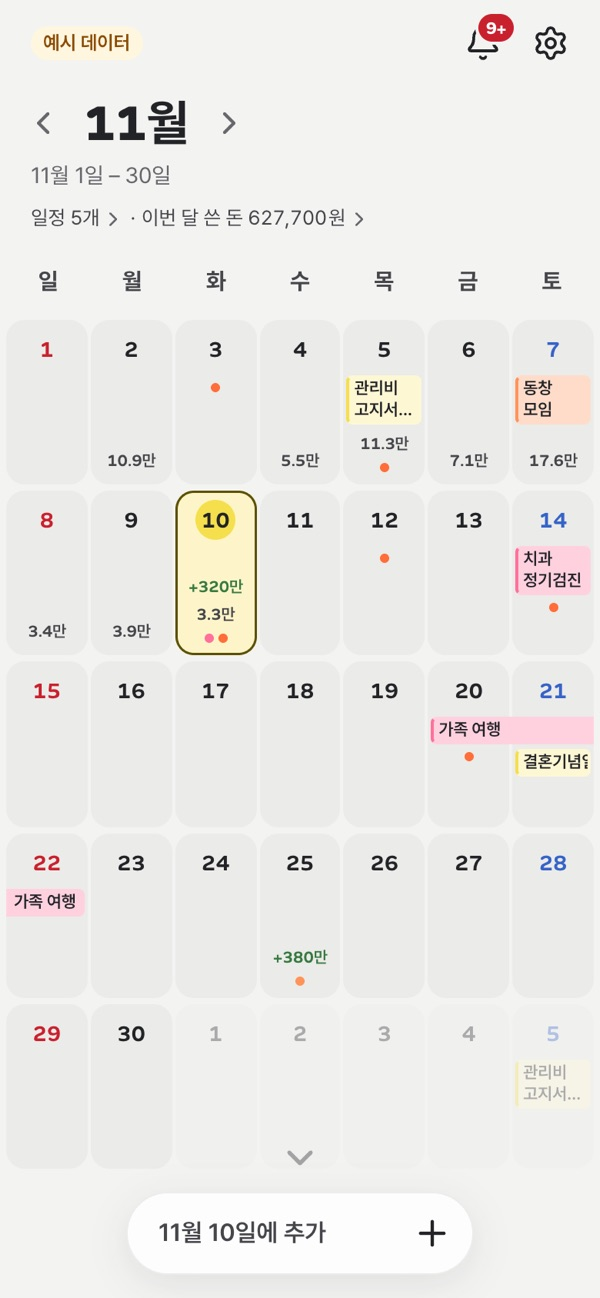
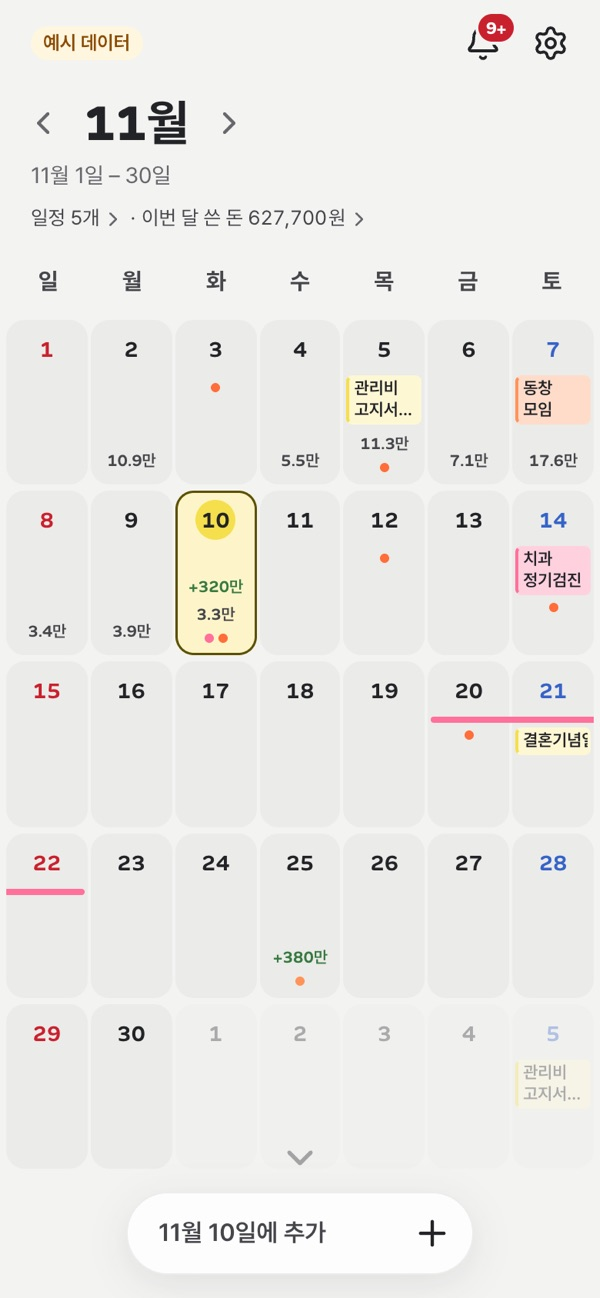
달력의 기간 일정을 얇은 줄로만 — 이름 없이 날짜 바로 아래 맨 위에 걸친 칸을 잇는다
이어진 띠는 기간이 길고 여러 개면 칸을 너무 많이 차지했다. 이름표 없이 4px 줄만 긋고,
칸에는 줄 수만큼만 빈자리를 둬 하루 일정이 거의 그대로 보이게 한다. 이름은 날짜를 누르면 나오는 목록에서 본다.

Changed region(s): [[0.72, 0.5547, 0.99, 0.6163], [0.0, 0.678, 0.15, 0.7088]]

diff --git a/apps/web/src/components/CalendarCard.tsx b/apps/web/src/components/CalendarCard.tsx
@@ -13,17 +13,19 @@ function short(n: number): string {
   return `${man >= 100 || Number.isInteger(man) ? Math.round(man) : man.toFixed(1)}만`;
 }
 
-/** 한 칸에 보이는 일정 줄 수 (기간 띠 + 하루 일정) */
+/** 한 칸에 보이는 하루 일정 수 */
 const ROWS = 3;
+/** 한 칸에 긋는 기간 줄 수 (넘치면 "+N개") */
+const LINES = 4;
 
-/** 한 주 안의 기간 일정 띠: c0~c1 칸(0=일요일)에 걸치고 lane 번째 줄에 놓인다 */
+/** 한 주 안의 기간 일정: c0~c1 칸(0=일요일)에 걸치고 lane 번째 줄에 놓인다 */
 interface Span {
   key: string;
   mark: Mark;
   lane: number;
   c0: number;
   c1: number;
-  /** 이 주에서 시작·끝나면 그쪽 끝을 둥글게 */
+  /** 이 주에 첫날·마지막 날이 있으면 그쪽 끝을 둥글게 칸 안쪽에서 끝낸다 */
   head: boolean;
   tail: boolean;
 }
@@ -48,7 +50,8 @@ function weekSpans(week: string[], marks: Map<string, Mark[]>): Span[] {
 
 /**
  * 달력 — 카드로 감싸지 않고 화면 너비를 다 쓴다. 날짜마다 일정 이름(입력한 사람 색)·쓴 돈·돈 일의 점.
- * 기간 일정은 주마다 걸친 칸을 잇는 띠 하나로 그린다(칸 위에 겹친 그리드 아이템). 칸에는 그 줄만큼 빈자리를 둬 하루 일정이 아래로 비킨다.
+ * 기간 일정은 이름 없이 날짜 바로 아래 맨 위에 걸친 칸을 잇는 얇은 줄로만 긋는다(칸 위에 겹친 그리드 아이템).
+ * 칸에는 그 줄만큼 빈자리를 둬 하루 일정이 아래로 비킨다. 이름은 날짜를 누르면 나오는 목록에 있다.
  * 폰에서는 줄이 남는 높이를 나눠 가져 화면을 꽉 채운다(달력 화면의 첫 칸). 좌우로 밀면 달이 넘어간다.
  */
 export function CalendarCard({
@@ -84,10 +87,11 @@ export function CalendarCard({
         {cells.map((d, i) => {
           const ms = marks.get(d) ?? [];
           // 이 칸을 지나는 기간 띠가 쓰는 줄 수만큼 빈자리, 남은 줄에 하루 일정
+          // 이 칸을 지나는 기간 줄만큼 빈자리(맨 위), 그 아래 하루 일정
           const spans = weeks[Math.floor(i / 7)].filter((s) => s.c0 <= i % 7 && i % 7 <= s.c1);
-          const used = Math.min(ROWS, spans.reduce((n, s) => Math.max(n, s.lane + 1), 0));
+          const used = Math.min(LINES, spans.reduce((n, s) => Math.max(n, s.lane + 1), 0));
           const singles = ms.filter((m) => m.event && !(m.occ && m.occ.start !== m.occ.end));
-          const hidden = spans.filter((s) => s.lane >= ROWS).length + Math.max(0, singles.length - (ROWS - used));
+          const hidden = spans.filter((s) => s.lane >= LINES).length + Math.max(0, singles.length - ROWS);
           const kinds = [...new Set(ms.filter((m) => !m.event).map((m) => (m.kind === "payday" ? `k-payday ${m.owner}` : `k-${m.kind}`)))].slice(0, 3);
           const amount = spent.get(d) ?? 0;
           const income = ms.reduce((a, m) => a + (m.kind === "payday" ? (m.amount ?? 0) : 0), 0);
@@ -104,8 +108,8 @@ export function CalendarCard({
             >
               <span className="n">{Number(d.slice(8))}</span>
               <span className="cal-events" aria-hidden="true">
-                {Array.from({ length: used }, (_, k) => <span className="cal-lane" key={`lane${k}`} />)}
-                {singles.slice(0, ROWS - used).map((m) => <span className={`cal-event ${m.event!.created_by ?? ""}`} key={m.event!.id}>{m.title}</span>)}
+                {used > 0 && <span className="cal-lanes" style={{ "--n": used } as CSSProperties} />}
+                {singles.slice(0, ROWS).map((m) => <span className={`cal-event ${m.event!.created_by ?? ""}`} key={m.event!.id}>{m.title}</span>)}
                 {hidden > 0 && <span className="cal-more">+{hidden}개</span>}
               </span>
               {income > 0 && <span className="amt in">+{short(income)}</span>}
@@ -120,19 +124,17 @@ export function CalendarCard({
             </button>
           );
         })}
-        {/* 기간 띠: 칸 위에 겹쳐 그 주에서 걸친 칸을 잇는다. 누르기는 아래 칸이 받는다. 이름은 시작한 날(또는 주 첫 칸)에만 */}
+        {/* 기간 일정: 걸친 칸을 잇는 얇은 줄. 칸 위에 겹치고 누르기는 아래 칸이 받는다 */}
         {weeks.flatMap((spans, w) =>
           spans
-            .filter((s) => s.lane < ROWS)
+            .filter((s) => s.lane < LINES)
             .map((s) => (
               <span
                 key={`${s.key}:${w}`}
-                className={`cal-span ${s.mark.event!.created_by ?? ""} ${s.head ? "head" : ""} ${s.tail ? "tail" : ""}`}
+                className={`cal-line ${s.mark.event!.created_by ?? ""} ${s.head ? "head" : ""} ${s.tail ? "tail" : ""}`}
                 style={{ gridRow: w + 1, gridColumn: `${s.c0 + 1} / ${s.c1 + 2}`, "--lane": s.lane } as CSSProperties}
                 aria-hidden="true"
-              >
-                {s.mark.title}
-              </span>
+              />
             )),
         )}
       </div>

diff --git a/apps/web/src/app/globals.css b/apps/web/src/app/globals.css
@@ -280,8 +280,8 @@ button, a, [role="button"], .chip, .tab, .seg button, .preset, .db {
 /* 카드 없이 화면 너비를 다 쓴다: 바깥 여백(--edge)을 거슬러 가장자리 4px까지, 가로 안전 영역(노치)은 피한다 */
 .cal { margin-inline: calc(max(4px, env(safe-area-inset-left, 0px)) - var(--edge)) calc(max(4px, env(safe-area-inset-right, 0px)) - var(--edge)); }
 .cal-week, .cal-grid { display: grid; grid-template-columns: repeat(7, minmax(0, 1fr)); }
-/* 칸 안쪽 여백과 일정 한 줄 높이 — 기간 띠(.cal-span)가 칸의 일정 줄과 같은 자리에 오도록 함께 쓴다 */
-.cal-grid { --cal-pad-t: 6px; --cal-pad-x: 2px; --ev-h: 18px; gap: 4px 2px; }
+/* 칸 안쪽 여백과 기간 줄 굵기·사이 — 기간 줄(.cal-line)이 칸의 빈자리(.cal-lanes)와 같은 자리에 오도록 함께 쓴다 */
+.cal-grid { --cal-pad-t: 6px; --cal-pad-x: 2px; --ln-h: 4px; --ln-gap: 3px; gap: 4px 2px; }
 .cal-week span { padding: 2px 0 8px; color: var(--faint); font: 600 12px/16px var(--font-text); text-align: center; }
 .cal-week .sun, .cal-day.sun .n { color: var(--negative); }
 .cal-week .sat, .cal-day.sat .n { color: var(--saturday); }
@@ -310,15 +310,14 @@ button, a, [role="button"], .chip, .tab, .seg button, .preset, .db {
 .cal-event { --who: var(--joint); display: -webkit-box; overflow: hidden; padding: 0 3px; border: 2px solid transparent; border-left-color: var(--who); border-radius: 4px; background: color-mix(in srgb, var(--who) 24%, var(--surface)); color: var(--text); font: 600 11px/14px var(--font-text); text-align: left; -webkit-box-orient: vertical; -webkit-line-clamp: 2; }
 .cal-event.a { --who: var(--a); background: color-mix(in srgb, var(--who) 32%, var(--surface)); }
 .cal-event.b { --who: var(--b); background: color-mix(in srgb, var(--who) 32%, var(--surface)); }
-/* 기간 일정: 주마다 걸친 칸을 잇는 띠 하나. 칸에는 같은 높이의 빈자리(.cal-lane)를 둬 하루 일정이 아래로 비킨다.
-   시작한 날만 왼쪽 막대·둥근 끝, 끝나는 날만 오른쪽 둥근 끝 — 주를 넘어가는 쪽은 각지게 칸 끝까지 */
-.cal-lane { flex: none; height: var(--ev-h); }
-.cal-span { --who: var(--joint); position: relative; z-index: 1; align-self: start; min-width: 0; height: var(--ev-h); margin-top: calc(var(--cal-pad-t) + 26px + 4px + var(--lane) * (var(--ev-h) + 3px)); overflow: hidden; padding: 0 3px; border: 2px solid transparent; background: color-mix(in srgb, var(--who) 24%, var(--surface)); color: var(--text); font: 600 11px/14px var(--font-text); white-space: nowrap; text-overflow: ellipsis; pointer-events: none; }
-.cal-span.a { --who: var(--a); background: color-mix(in srgb, var(--who) 32%, var(--surface)); }
-.cal-span.b { --who: var(--b); background: color-mix(in srgb, var(--who) 32%, var(--surface)); }
-.cal-span.head { margin-left: var(--cal-pad-x); border-left-color: var(--who); border-radius: 4px 0 0 4px; }
-.cal-span.tail { margin-right: var(--cal-pad-x); border-radius: 0 4px 4px 0; }
-.cal-span.head.tail { border-radius: 4px; }
+/* 기간 일정: 이름 없이 날짜 바로 아래 맨 위에 걸친 칸을 잇는 얇은 줄(입력한 사람 색). 시작·끝나는 날은 칸 안쪽에서 둥글게 끝나고,
+   주를 넘어가는 쪽은 칸 끝까지 이어진다. 칸에는 줄 수만큼 빈자리(.cal-lanes)를 둬 하루 일정이 그 아래로 비킨다 */
+.cal-lanes { flex: none; height: calc(var(--n) * (var(--ln-h) + var(--ln-gap)) - var(--ln-gap)); }
+.cal-line { --who: var(--joint); position: relative; z-index: 1; align-self: start; min-width: 0; height: var(--ln-h); margin-top: calc(var(--cal-pad-t) + 30px + var(--lane) * (var(--ln-h) + var(--ln-gap))); background: var(--who); pointer-events: none; }
+.cal-line.a { --who: var(--a); }
+.cal-line.b { --who: var(--b); }
+.cal-line.head { margin-left: var(--cal-pad-x); border-top-left-radius: var(--ln-h); border-bottom-left-radius: var(--ln-h); }
+.cal-line.tail { margin-right: var(--cal-pad-x); border-top-right-radius: var(--ln-h); border-bottom-right-radius: var(--ln-h); }
 .cal-more { color: var(--muted); font: 500 10px/14px var(--font-text); text-align: left; }
 .cal-day .amt { margin-top: auto; }
 .cal-day .amt.in + .amt { margin-top: 0; }
@@ -414,9 +413,9 @@ button, a, [role="button"], .chip, .tab, .seg button, .preset, .db {
 .cal-empty .btn svg { width: 18px; height: 18px; }
 .cal-overview { margin-top: 16px; }
 @media (min-width: 720px) {
-  .cal-grid { --cal-pad-t: 8px; --cal-pad-x: 6px; --ev-h: 22px; gap: 6px; }
+  .cal-grid { --cal-pad-t: 8px; --cal-pad-x: 6px; gap: 6px; }
   .cal-day { padding: 8px 6px; }
-  .cal-event, .cal-span { font-size: 12px; line-height: 18px; }
+  .cal-event { font-size: 12px; line-height: 18px; }
 }
 @media (min-width: 1024px) {
   .cal { margin-inline: 0; }

diff --git a/docs/design-system/components/Calendar/README.md b/docs/design-system/components/Calendar/README.md
@@ -17,11 +17,10 @@
   - **메뉴가 돌아옴:** 모아 보기 위쪽이 화면 가운데를 넘으면(`data-cal="open"`) 캡슐과 버튼이 같은 박자로 제자리로 돌아옵니다. 다시 위로 올리면 또 비켜 줍니다.
   - **처음 왔을 때:** 모아 보기를 아직 내려 본 적 없는 기기에서는 가운데 버튼 바로 위에 반투명(38%) `ChevronDown`이 5px 오르내리고(누르면 모아 보기로 내려감), 들어온 지 0.7초 뒤 화면을 96px 올려 모아 보기 머리를 살짝 비춘 다음 되돌립니다(1.5초, `transform`만, 앱을 켜 둔 동안 한 번). 한 번 내려 보면 이 기기에서는 둘 다 다시 하지 않습니다(`our-money-cal-more-seen`).
   - 데스크톱(레일)은 하단 메뉴가 없어 스냅·비켜 주기 없이 달력 아래에 모아 보기가 이어집니다.
-- **월 격자:** 카드로 감싸지 않습니다. 휴대폰·태블릿(1024px 미만)에서는 바깥 여백을 거슬러 화면 가장자리 4px(가로 안전 영역이 더 크면 그만큼)까지 넓히고, 레일이 있는 넓은 화면에서는 본문 너비를 씁니다. 모든 너비에서 7열을 넓게 사용합니다. 날짜 칸은 데스크톱에서 높이 112~148px(폰은 화면을 나눠 가진 높이), 일정 이름은 최대 3개와 남은 개수입니다. 긴 이름은 말줄임하고 접근성 이름과 상세에는 전체 제목을 남깁니다. 기간 일정(이틀 이상)은 날짜마다 따로 그리지 않고 **주마다 걸친 칸을 잇는 띠 하나**로 그립니다.
-  - 띠는 칸 위에 겹친 그리드 아이템(`.cal-span`, `grid-column: 시작 / 끝+1`)이라 칸 사이 틈까지 이어지고, 누르기는 아래 칸이 받습니다. 이름은 띠의 왼쪽(시작한 날 또는 그 주 첫 칸)에 한 줄로, 넘치면 말줄임.
-  - 시작한 날에만 사람 색 왼쪽 막대와 왼쪽 둥근 끝, 끝나는 날에만 오른쪽 둥근 끝을 두고, 주를 넘어가는 쪽은 각지게 칸 끝까지 그립니다.
-  - 줄 배정: 주마다 먼저 시작한 것(같으면 긴 것)부터 비어 있는 가장 위 줄에 놓아, 같은 일정이 그 주 내내 같은 줄에 있습니다. 칸에는 띠가 쓰는 줄만큼 같은 높이의 빈자리(`.cal-lane`)를 두고 하루 일정은 그 아래에 둡니다. 띠와 하루 일정을 합쳐 3줄, 넘치면 "+N개".
-  - 띠의 높이·세로 위치는 칸과 같은 변수(`--cal-pad-t`·`--cal-pad-x`·`--ev-h`: 폰 6·2·18px, 720px 이상 8·6·22px)로 맞춥니다.
+- **월 격자:** 카드로 감싸지 않습니다. 휴대폰·태블릿(1024px 미만)에서는 바깥 여백을 거슬러 화면 가장자리 4px(가로 안전 영역이 더 크면 그만큼)까지 넓히고, 레일이 있는 넓은 화면에서는 본문 너비를 씁니다. 모든 너비에서 7열을 넓게 사용합니다. 날짜 칸은 데스크톱에서 높이 112~148px(폰은 화면을 나눠 가진 높이), 일정 이름은 최대 3개와 남은 개수입니다. 긴 이름은 말줄임하고 접근성 이름과 상세에는 전체 제목을 남깁니다. 기간 일정(이틀 이상)은 이름 없이 **날짜 바로 아래 맨 위에 걸친 칸을 잇는 얇은 줄**(4px, 입력한 사람 색)로만 긋습니다. 이름·시간은 날짜를 누르면 나오는 목록에서 봅니다.
+  - 줄은 칸 위에 겹친 그리드 아이템(`.cal-line`, 그 주에서 걸친 칸 `grid-column`)이라 칸 사이 틈까지 이어지고, 누르기는 아래 칸이 받습니다. 시작·끝나는 날은 칸 안쪽에서 둥글게 끝나고, 주를 넘어가는 쪽은 칸 끝까지 이어집니다.
+  - 줄 배정: 주마다 먼저 시작한 것(같으면 긴 것)부터 비어 있는 가장 위 줄에 놓아, 같은 일정이 그 주 내내 같은 줄에 있습니다. 칸에는 줄 수만큼 빈자리(`.cal-lanes`)를 둬 하루 일정은 그 아래에 3개까지 둡니다. 기간 줄은 4개까지, 넘치면 "+N개".
+  - 세로 자리는 칸과 같은 변수(`--cal-pad-t`·`--cal-pad-x`·`--ln-h`·`--ln-gap`: 폰 6·2·4·3px, 720px 이상 8·6·4·3px)로 맞춥니다.
 - **구분:** 일정은 입력한 사람(`created_by`)의 색으로 칠합니다. 왼쪽 2px 막대는 `a`/`b` 원색, 바탕은 같은 색을 `surface`에 32% 섞은 색, 글자는 대비를 위해 `text`입니다. 입력한 사람을 모르면 `joint` 색(24%)입니다. 날짜 패널의 일정 점도 같은 기준입니다. 오늘은 `primary` 원, 선택한 날짜는 `accent-soft`·안쪽 선입니다. 지출 금액과 월급·결제·이체의 점 표시도 유지합니다.
 - **날짜 선택:** 클릭·Enter·Space로 날짜를 고르면 그날 일정·돈 일·지출을 담은 패널이 아래에서 올라옵니다. 볼 것이 없는 날은 패널을 열지 않고 고르기만 합니다. 패널 머리의 닫기는 상자 없이 아이콘만 두고, `N월 N일에 일정 추가`는 패널 맨 아래의 넓은 버튼입니다. 아래 추가 버튼의 이름이 `11월 19일에 일정 추가`처럼 고른 날짜로 바뀝니다. 패널을 연 채로 내역이 모두 지워지면 상자 없이 가운데에 아이콘·`비어 있는 날이에요`·안내 한 줄·`일정 추가` 버튼을 둡니다.
 - **날짜 패널:** 애플 캘린더 목록 보기를 참고했습니다.

diff --git a/CHANGELOG.md b/CHANGELOG.md
@@ -8,7 +8,7 @@
 ## 다음 버전
 
 - 달력 첫 화면에서 아래로 내릴 때 **고무줄처럼 버텨요**. 손가락보다 덜 따라오다가, 조금만 끌고 놓으면 달력으로 돌아오고 충분히 끌거나 빠르게 튕기면 모아 보기로 넘어가요. 모아 보기가 짧을 때(할 일을 다 끝낸 달 등) 내려도 아래 메뉴가 돌아오지 않던 것도 고쳤어요.
-- 달력에서 며칠에 걸친 일정이 날짜마다 따로 그려지지 않고 **이어진 띠 하나**로 보여요. 시작한 날에 이름과 사람 색 막대가 있고, 같은 일정은 그 주 내내 같은 줄에 있어요.
+- 달력에서 며칠에 걸친 일정은 날짜마다 이름을 쓰지 않고 **날짜 바로 아래 맨 위에 이어진 얇은 줄**(입력한 사람 색)로만 보여요. 여러 개가 겹쳐도 하루 일정 자리를 거의 차지하지 않고, 같은 일정은 그 주 내내 같은 줄에 있어요. 이름은 날짜를 누르면 나와요.
 - **DB 이전:** 없음
 
 ## v0.6.0 — 2026-11-12
